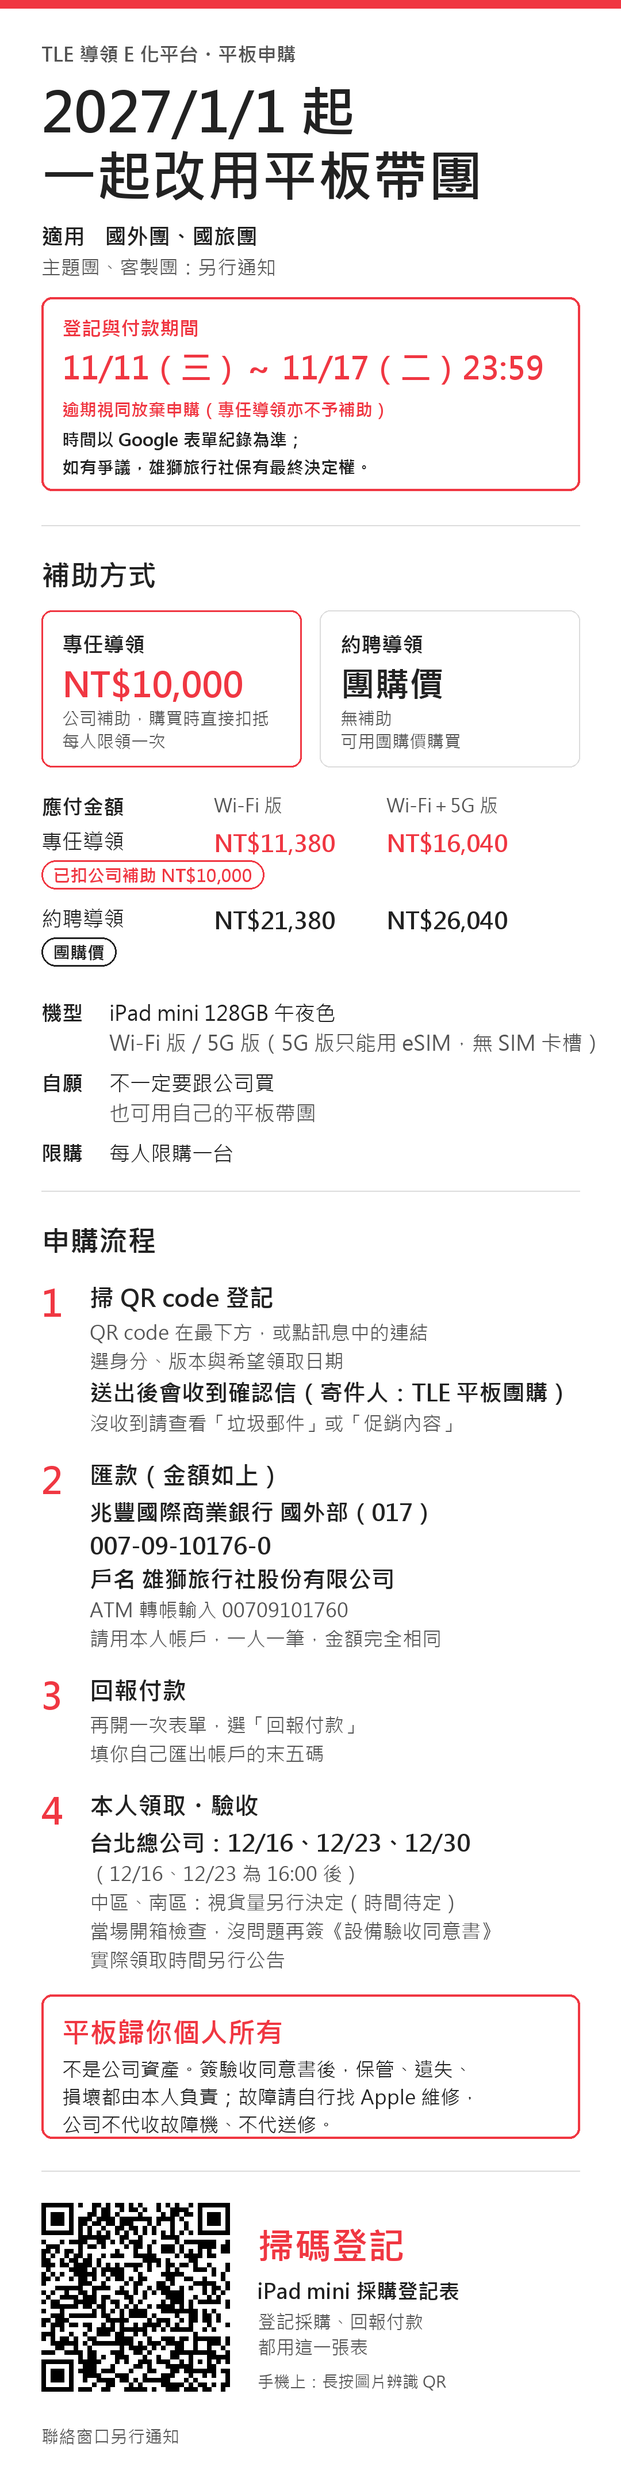
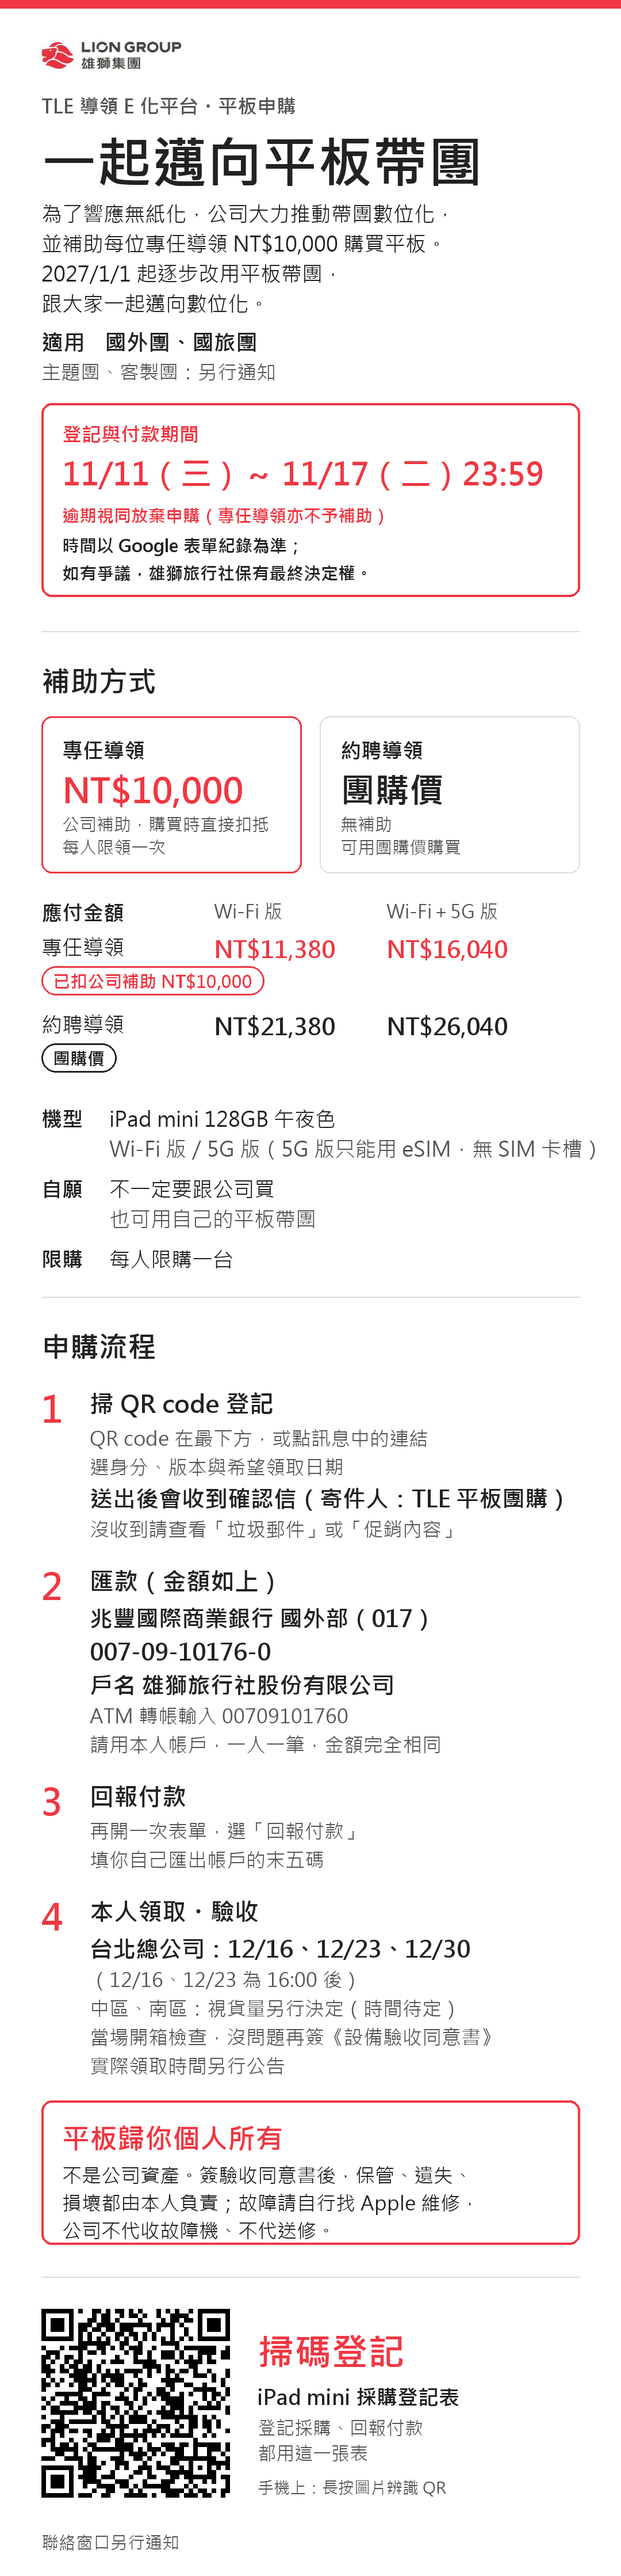
Update notice files 2026-11-12

diff --git a/index.html b/index.html
@@ -56,6 +56,13 @@ section { display: flex; flex-direction: column; gap: 14px; }
 .alert p { margin: 0; }
 .nw { white-space: nowrap; display: inline-block; }
 .alert .rule { font-weight: 700; color: var(--accent); }
+.logo { display: block; width: 161px; height: auto; margin-bottom: 8px; }
+@media (prefers-color-scheme: dark) { :root:not([data-theme="light"]) .logo { background: #fff; padding: 6px 10px; border-radius: 8px; } }
+:root[data-theme="dark"] .logo { background: #fff; padding: 6px 10px; border-radius: 8px; }
+.lead { margin: 4px 0 0; font-size: 18px; line-height: 1.75; max-width: 40em; }
+.alert .subsidy { display: flex; flex-wrap: wrap; align-items: baseline; gap: 4px 12px; margin: 6px 0 2px; padding: 12px 0; border-top: 1px solid var(--line); border-bottom: 1px solid var(--line); font-size: clamp(22px, 5vw, 30px); font-weight: 700; line-height: 1.3; }
+.alert .subsidy .who { font-size: 0.7em; color: var(--muted); }
+.alert .subsidy b { color: var(--accent); font-size: 1.15em; }
 .alert .final { font-size: 14px; font-weight: 700; color: var(--fg); }
 .prices { width: 100%; border-collapse: collapse; font-variant-numeric: tabular-nums; }
 .prices th, .prices td { padding: 12px 10px; border-bottom: 1px solid var(--line); text-align: right; }
@@ -94,12 +101,15 @@ section { display: flex; flex-direction: column; gap: 14px; }
 
 <div class="wrap">
   <header>
+    <img class="logo" src="lion-logo.jpg" width="161" height="50" alt="LION GROUP 雄獅集團">
     <div class="eyebrow">TLE 導領 E 化平台・平板申購</div>
-    <h1>2027/1/1 起<br>一起改用平板帶團</h1>
+    <h1>一起邁向<br>平板帶團</h1>
+    <p class="lead">為了響應無紙化，公司大力推動帶團數位化，並補助每位專任導領 NT$10,000 購買平板。2027/1/1 起逐步改用平板帶團，跟大家一起邁向數位化。</p>
     <p class="scope"><b>適用</b>　國外團（Outbound）、國旅團　｜　主題團、客製團另行通知</p>
     <div class="alert" role="note">
       <div class="k">重要｜登記與付款期間</div>
       <div class="when"><span class="nw">2026/11/11（三）～</span> <span class="nw">11/17（二）23:59</span></div>
+      <div class="subsidy"><span class="who">專任導領</span><span class="nw">已扣公司補助 <b>NT$10,000</b></span></div>
       <p class="rule">須於期間內「完成登記表」且「成功付款」，逾期視同放棄申購（專任導領亦不予補助）。</p>
       <p class="final">時間以 Google 表單紀錄為準；如有爭議，雄獅旅行社保有最終決定權。</p>
     </div>
@@ -118,15 +128,48 @@ section { display: flex; flex-direction: column; gap: 14px; }
     <p class="owner"><b>平板歸購買人個人所有，不是公司資產。</b>領取當天驗收、簽署《設備驗收同意書》後，保管、遺失、損壞與維修由本人自行負責；公司不代收故障機、不代送修。</p>
   </section>
 
+  <section aria-labelledby="h-form">
+    <h2 id="h-form">登記表 QR code</h2>
+    <div class="qr">
[1 lines of base64/hex data omitted]
+      <div class="txt">
+        <div class="big">掃碼登記</div>
+        <div>iPad mini 採購登記表<br><span style="color:var(--muted)">登記採購、回報付款都用這一張表</span></div>
+        <p class="mailtip">送出登記後會收到<b>確認信</b>（寄件人「TLE 平板團購」，含應付金額與匯款資料）。沒收到請查看<b>垃圾郵件</b>或<b>促銷內容</b>。</p>
+        <div class="row">
+          <a class="btn primary" href="https://docs.google.com/forms/d/e/1FAIpQLScBRnBCwPRIjfkRc_nUYg1U1YS1kxVSOd4e8PlcC0XqD_pPJw/viewform" target="_blank" rel="noopener">開啟登記表</a>
+          <button class="btn" id="copy-link" type="button">複製連結</button>
+        </div>
+        <p class="url" id="form-url">https://docs.google.com/forms/d/e/1FAIpQLScBRnBCwPRIjfkRc_nUYg1U1YS1kxVSOd4e8PlcC0XqD_pPJw/viewform</p>
+      </div>
+    </div>
+    <p class="status" id="link-status" aria-live="polite"></p>
+  </section>
+
+  <section aria-labelledby="h-lookup">
+    <h2 id="h-lookup">付款回報查詢</h2>
+    <div class="lookup">
+      <p style="margin:0">填完「回報付款」後，輸入你匯出帳戶的<b>末五碼</b>，確認表單已送達。</p>
+      <form id="lookup-form" novalidate>
+        <label for="last5" class="note" style="width:100%">帳號末五碼</label>
+        <input id="last5" name="last5" inputmode="numeric" autocomplete="off" maxlength="5" pattern="\d{5}" placeholder="12345" aria-describedby="lookup-note">
+        <button class="btn primary" id="lookup-btn" type="submit">查詢</button>
+      </form>
+      <div class="result" id="lookup-result" aria-live="polite"></div>
+      <p class="note" id="lookup-note">查到資料＝已收到你的付款回報表單，<b>不等於已確認收款</b>；款項仍需由出納與銀行帳戶逐筆核對。姓名只顯示首尾字。</p>
+    </div>
+  </section>
+
   <section aria-labelledby="h-notice">
     <div class="head">
       <h2 id="h-notice">公告文字</h2>
       <button class="btn" id="copy-notice" type="button">複製公告</button>
     </div>
-    <pre class="notice" id="notice-text">【平板申購公告】2027/1/1 起，一起改用平板帶團
+    <pre class="notice" id="notice-text">【平板申購公告】一起邁向平板帶團
 
 各位導領夥伴好：
-配合 TLE 導領 E 化平台上線，自 2027/1/1 起，國外團（Outbound）及國旅團將改用平板帶團；主題團、客製團另行通知。
+為了響應無紙化，公司大力推動帶團數位化，並補助每位專任導領 NT$10,000 購買平板。
+2027/1/1 起，國外團（Outbound）及國旅團將逐步改用平板帶團（主題團、客製團另行通知），跟大家一起邁向數位化。
 
 【重要】登記與付款期間
 2026/11/11（三）～ 11/17（二）23:59
@@ -178,38 +221,6 @@ https://hoyinzlionwork-cmd.github.io/tablet-notice/
     <p class="status" id="notice-status" aria-live="polite"></p>
   </section>
 
-  <section aria-labelledby="h-form">
-    <h2 id="h-form">登記表 QR code</h2>
-    <div class="qr">
[1 lines of base64/hex data omitted]
-      <div class="txt">
-        <div class="big">掃碼登記</div>
-        <div>iPad mini 採購登記表<br><span style="color:var(--muted)">登記採購、回報付款都用這一張表</span></div>
-        <p class="mailtip">送出登記後會收到<b>確認信</b>（寄件人「TLE 平板團購」，含應付金額與匯款資料）。沒收到請查看<b>垃圾郵件</b>或<b>促銷內容</b>。</p>
-        <div class="row">
-          <a class="btn primary" href="https://docs.google.com/forms/d/e/1FAIpQLScBRnBCwPRIjfkRc_nUYg1U1YS1kxVSOd4e8PlcC0XqD_pPJw/viewform" target="_blank" rel="noopener">開啟登記表</a>
-          <button class="btn" id="copy-link" type="button">複製連結</button>
-        </div>
-        <p class="url" id="form-url">https://docs.google.com/forms/d/e/1FAIpQLScBRnBCwPRIjfkRc_nUYg1U1YS1kxVSOd4e8PlcC0XqD_pPJw/viewform</p>
-      </div>
-    </div>
-    <p class="status" id="link-status" aria-live="polite"></p>
-  </section>
-
-  <section aria-labelledby="h-lookup">
-    <h2 id="h-lookup">付款回報查詢</h2>
-    <div class="lookup">
-      <p style="margin:0">填完「回報付款」後，輸入你匯出帳戶的<b>末五碼</b>，確認表單已送達。</p>
-      <form id="lookup-form" novalidate>
-        <label for="last5" class="note" style="width:100%">帳號末五碼</label>
-        <input id="last5" name="last5" inputmode="numeric" autocomplete="off" maxlength="5" pattern="\d{5}" placeholder="12345" aria-describedby="lookup-note">
-        <button class="btn primary" id="lookup-btn" type="submit">查詢</button>
-      </form>
-      <div class="result" id="lookup-result" aria-live="polite"></div>
-      <p class="note" id="lookup-note">查到資料＝已收到你的付款回報表單，<b>不等於已確認收款</b>；款項仍需由出納與銀行帳戶逐筆核對。姓名只顯示首尾字。</p>
-    </div>
-  </section>
-
   <section aria-labelledby="h-files">
     <h2 id="h-files">說明圖</h2>
     <div class="files">
@@ -219,12 +230,12 @@ https://hoyinzlionwork-cmd.github.io/tablet-notice/
           <div class="meta">PNG・手機直式，可直接轉傳 LINE</div>
         </div>
         <div class="row">
-          <a class="btn" href="leader-flyer.png?v=202611121216" target="_blank" rel="noopener">開啟圖片</a>
-          <a class="btn" href="leader-flyer.png?v=202611121216" download="導領平板申購說明.png">下載圖片</a>
+          <a class="btn" href="leader-flyer.png?v=202611121345" target="_blank" rel="noopener">開啟圖片</a>
+          <a class="btn" href="leader-flyer.png?v=202611121345" download="導領平板申購說明.png">下載圖片</a>
         </div>
       </div>
     </div>
-        <img class="flyer" src="leader-flyer.png?v=202611121216" alt="導領平板申購說明圖預覽" loading="lazy">
+        <img class="flyer" src="leader-flyer.png?v=202611121345" alt="導領平板申購說明圖預覽" loading="lazy">
   </section>
 </div>
 
